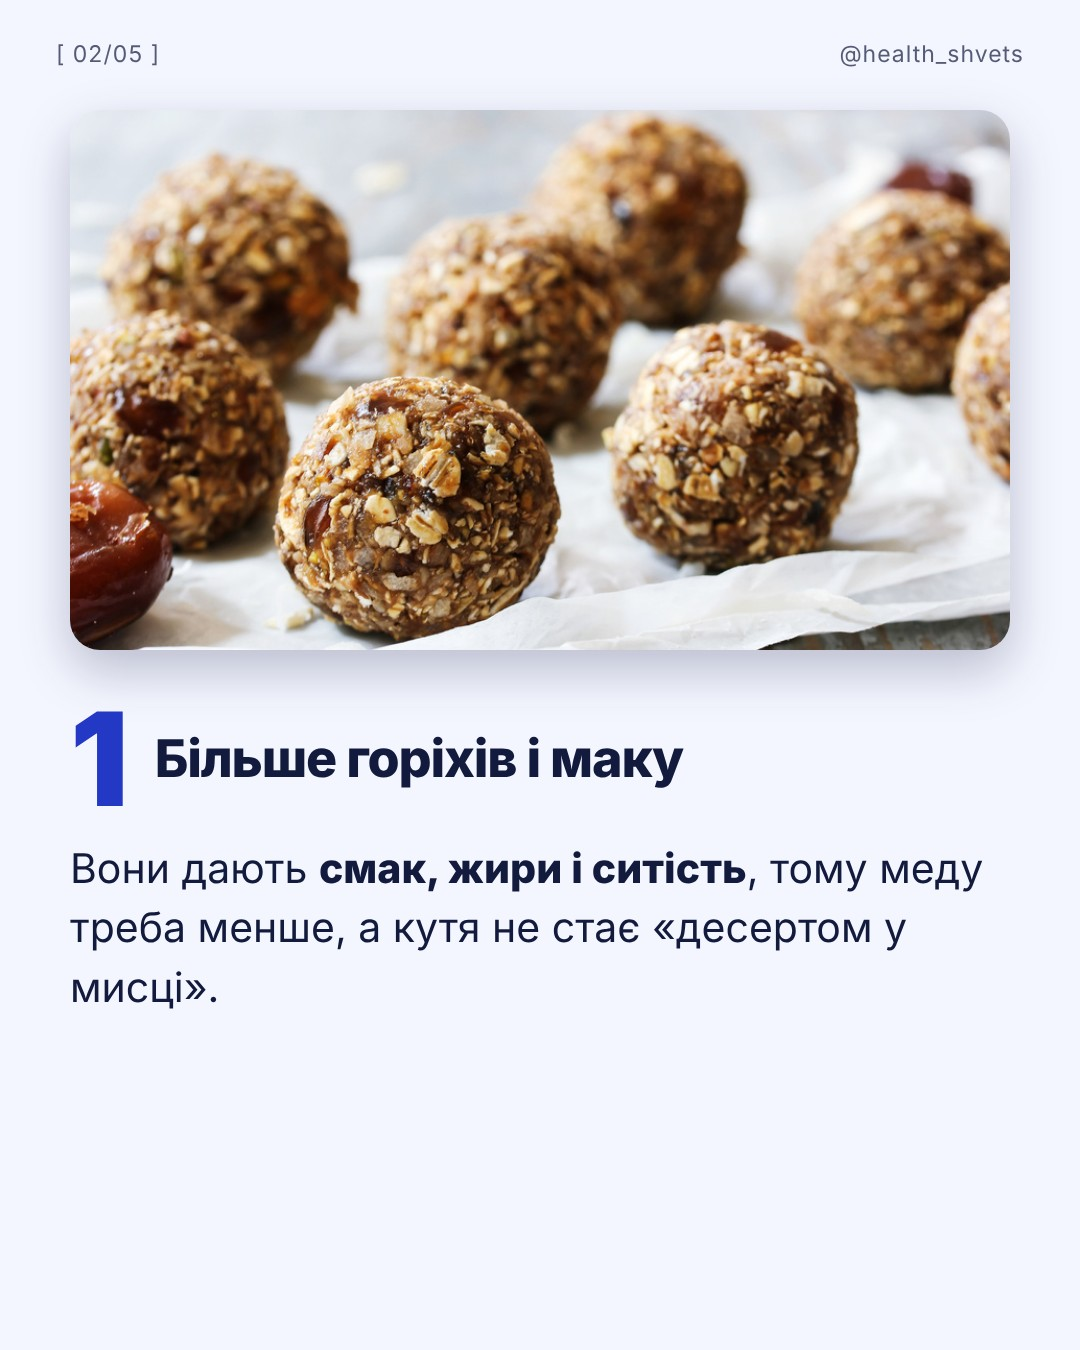
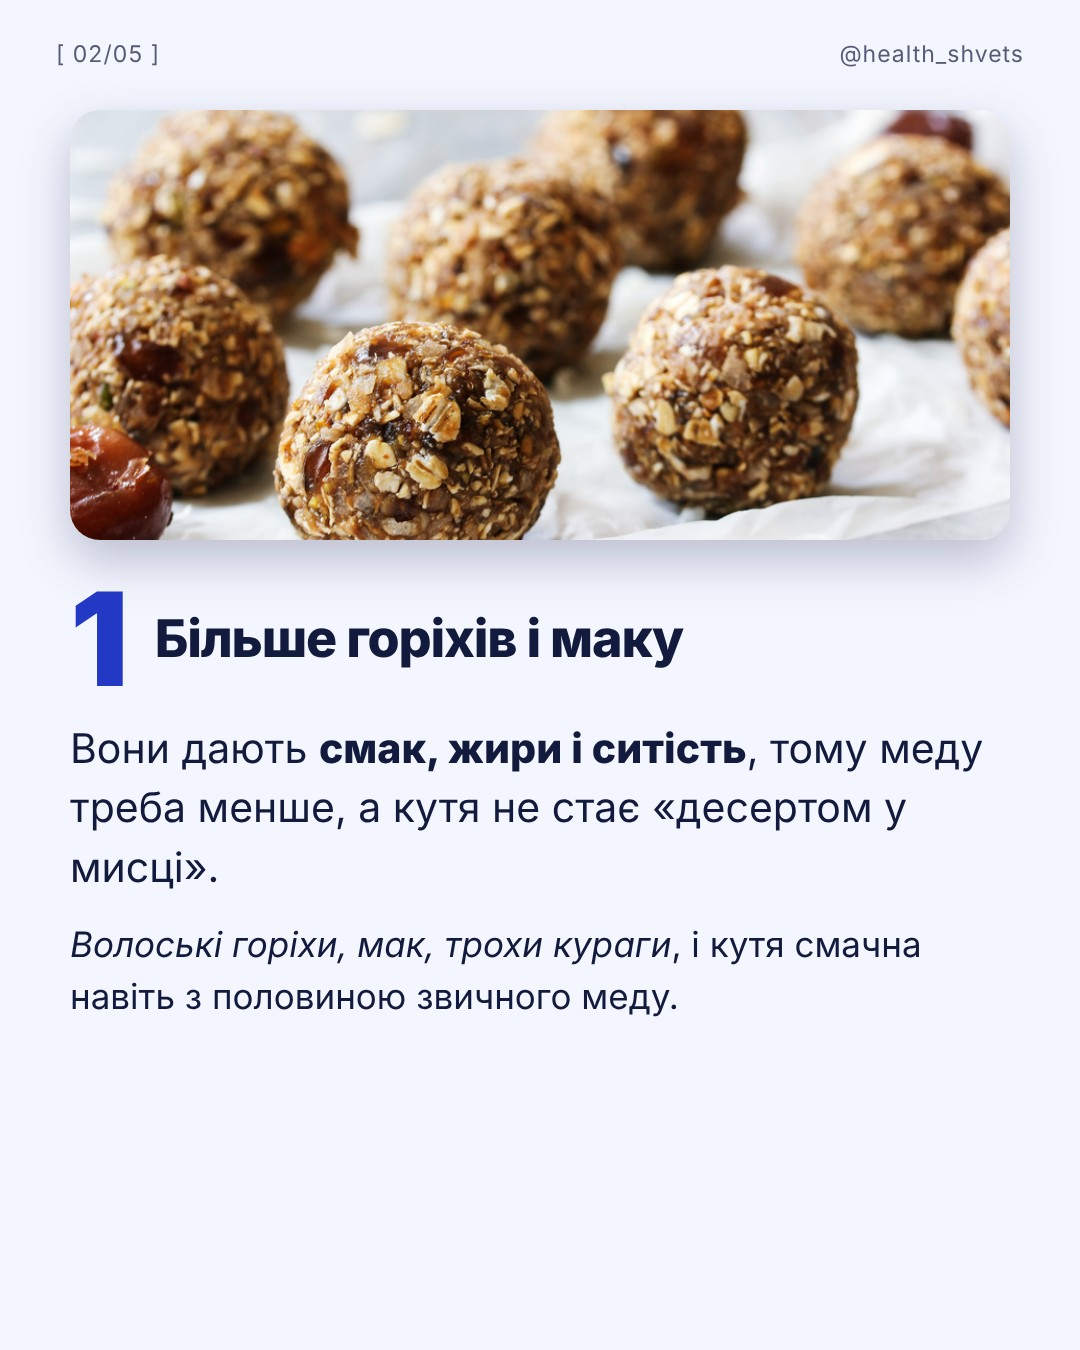
Каруселі 18-24.12 повноцінні
Claude-Session: https://claude.ai/code/session_01VzrYNc44ZAszRsGLiFGcPN

diff --git a/tools/posts2/extra_data.py b/tools/posts2/extra_data.py
@@ -125,3 +125,31 @@ X["h14"] = {3: P("<i>Після свят тіло теж хоче «провіт
 del X["h9"][3], X["h10"][3], X["h13"][3], X["h13"][4]
 X["h2"][2] = P("<i>Ми так часто робимо і з тілом: щось болить, але ж «працюємо, живемо», тож можна потерпіти.</i>")
 del X["h3"][6]
+
+# ===== 18-24.12 =====
+RULE2 = '.ph{height:430px!important} div[style*="top:700px"]{top:580px!important}'
+X["i1"] = {
+    3: P("<i>Здавалося б, якщо це рекламує зірка, вона ж знає, що робить.</i>"),
+    4: P("<b>Простий тест перед покупкою:</b> чи знаєте ви, навіщо цей засіб саме вам? Якщо відповідь «бо всі п'ють», це гроші на вітер."),
+    6: P("<b>Що робити:</b> спершу аналізи і ваші симптоми, а вже під них засоби. Так дешевше і працює краще."),
+}
+R["i3"] = {2: [("Дочитайте, це не про цукерки.", "Знайомо?")]}
+X["i3"] = {3: P("<b>Що робити:</b> покладіть на видному місці фрукти, горіхи, корисні цукерки, а солодке давайте після їжі і без драми. <i>Тоді воно перестає бути забороненим скарбом.</i>")}
+R["i5"] = {2: [("Дочитайте, це про вас.", "Знайомо?")]}
+X["i5"] = {3: P("<i>Подумайте: коли ви востаннє робили щось для свого здоров'я не «між справами», а як подарунок собі?</i>")}
+X["i7"] = {4: P("<i>Без аналізу ми б гадали роками. З ним за кілька місяців видно і причину, і результат.</i>")}
+X["i8"] = {4: P("<i>Не різко, а крок за кроком:</i> так тяга до солодкого слабшає, а не перетворюється на зрив.")}
+X["i9"] = {
+    4: P("<i>Тобто солодке тут лише обгортка, а дитині насправді потрібні радість і ваша увага.</i>"),
+    5: P("<i>Сюрприз можна сховати в коробочку без жодної цукерки</i>, і радості буде не менше 😉"),
+}
+R["i10"] = {2: [("Дочитайте до кінця.", "Знайомо?")]}
+X["i10"] = {3: P("<i>Підготуватися заздалегідь</i> означає вже в грудні знати, з чого почнете січень, а не шукати це 1-го числа.")}
+X["i12"] = {
+    2: P("<i>Волоські горіхи, мак, трохи кураги</i>, і кутя смачна навіть з половиною звичного меду."),
+    3: P("<b>Порада:</b> замочіть сухофрукти заздалегідь, тоді вони віддадуть більше солодкості, і меду знадобиться менше."),
+    4: P("<i>Поставте кутю в маленьких піалах</i>, і порція сама буде правильною."),
+}
+S["i12"] = {n: RULE2 for n in (2, 3, 4)}
+X["i13"] = {4: P("<i>Для мене це найцінніше: знати, що свята стали легшими хоча б в одному домі.</i>")}
+X["i14"] = {4: P("<i>Начинку можна змінювати:</i> замість сиру з кропом покласти шматочок оливки чи зелені. Головне, щоб сюрприз був.")}
